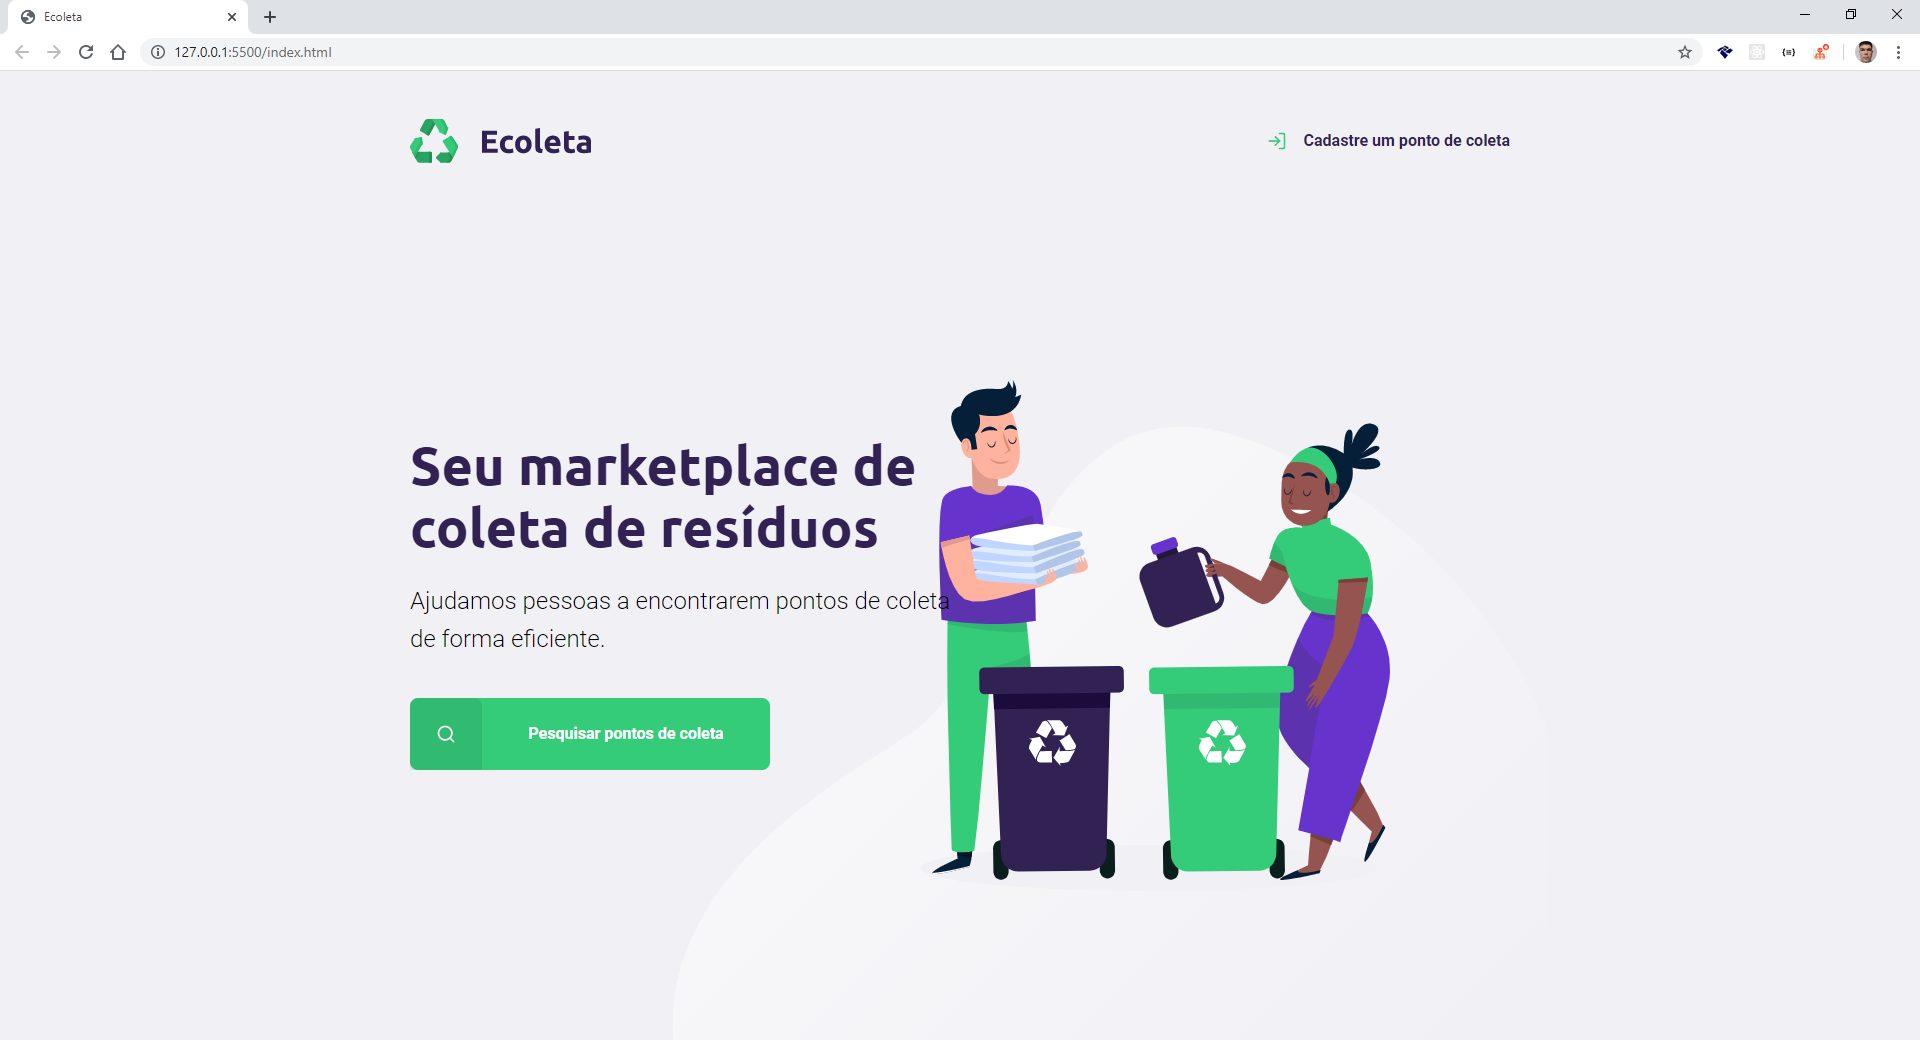
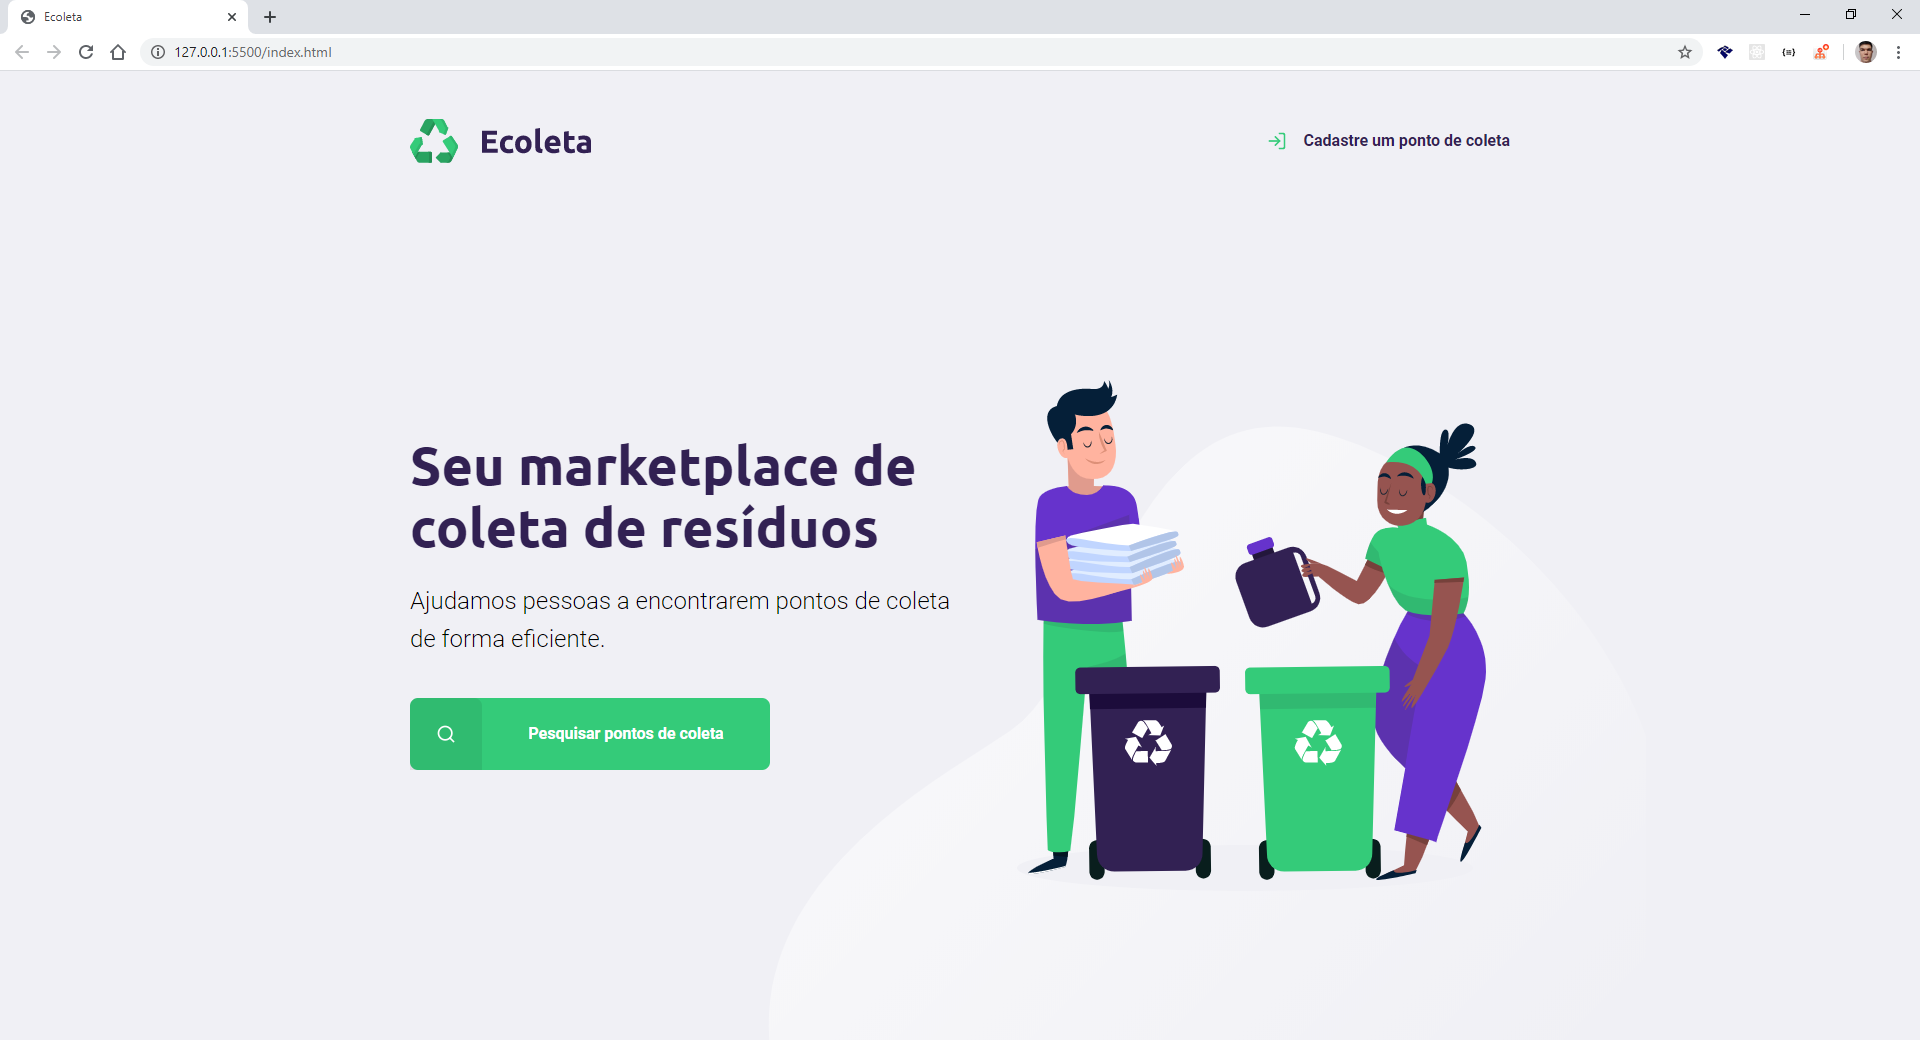
Melhoria além da aula posicionamento

Changed region(s): [[0.4688, 0.3692, 0.7812, 0.8615]]

diff --git a/styles/main.css b/styles/main.css
@@ -38,7 +38,7 @@ h1, h2, h3, h4, h5, h6 {
 #page-home {
   height: 100vh;
   background: url('../assets/home-background.svg') no-repeat;
-  background-position: 35vw bottom;
+  background-position: 40vw bottom;
 }
 
 #page-home .content {
